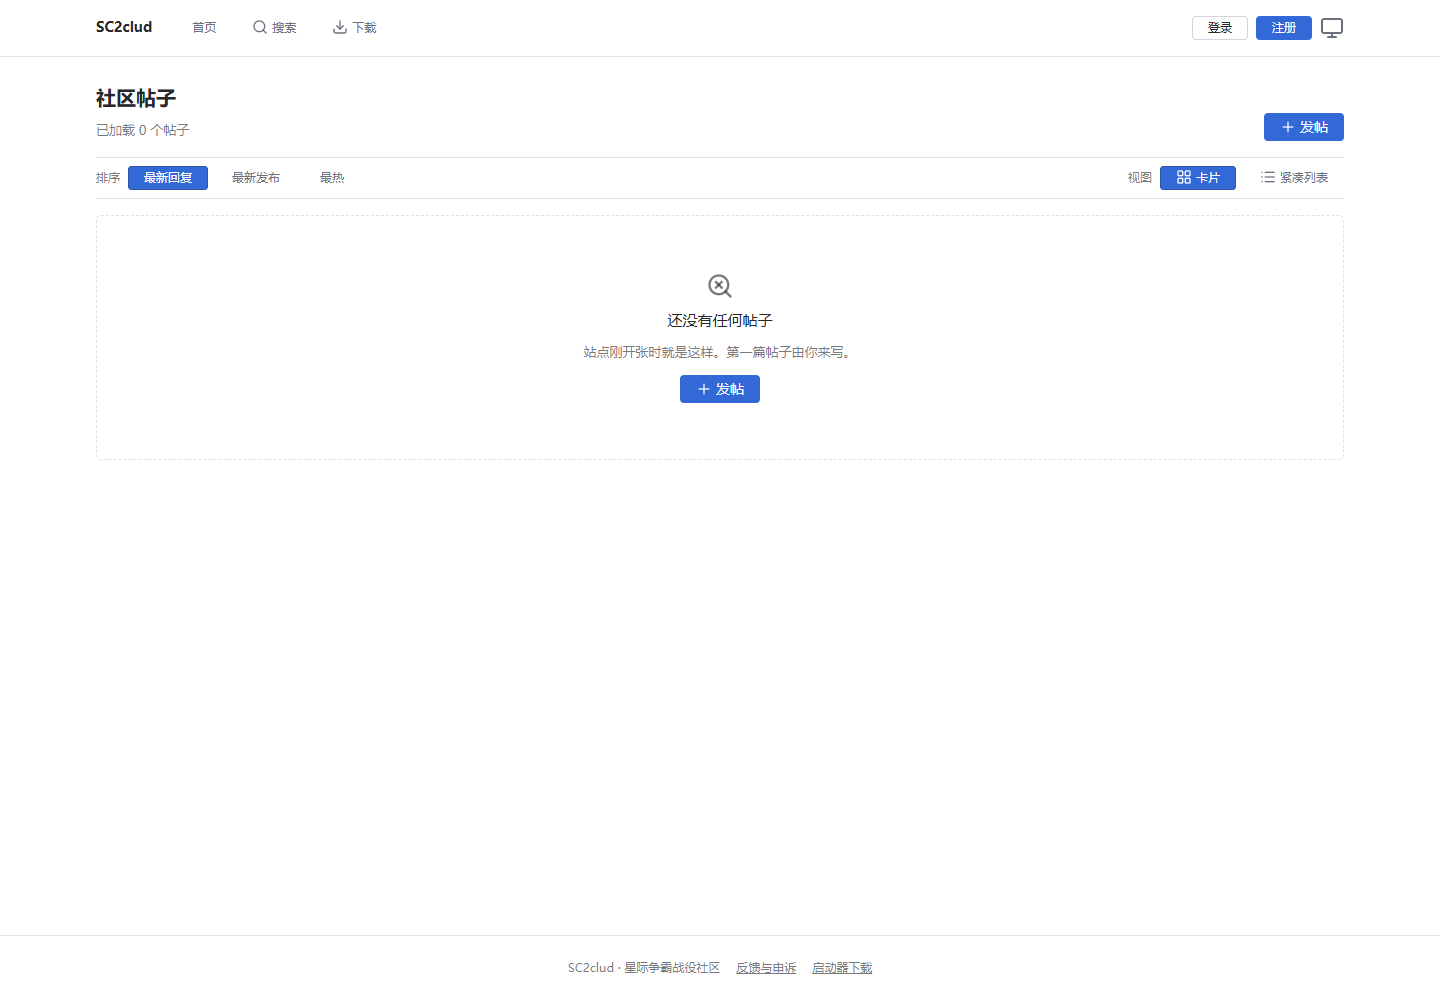
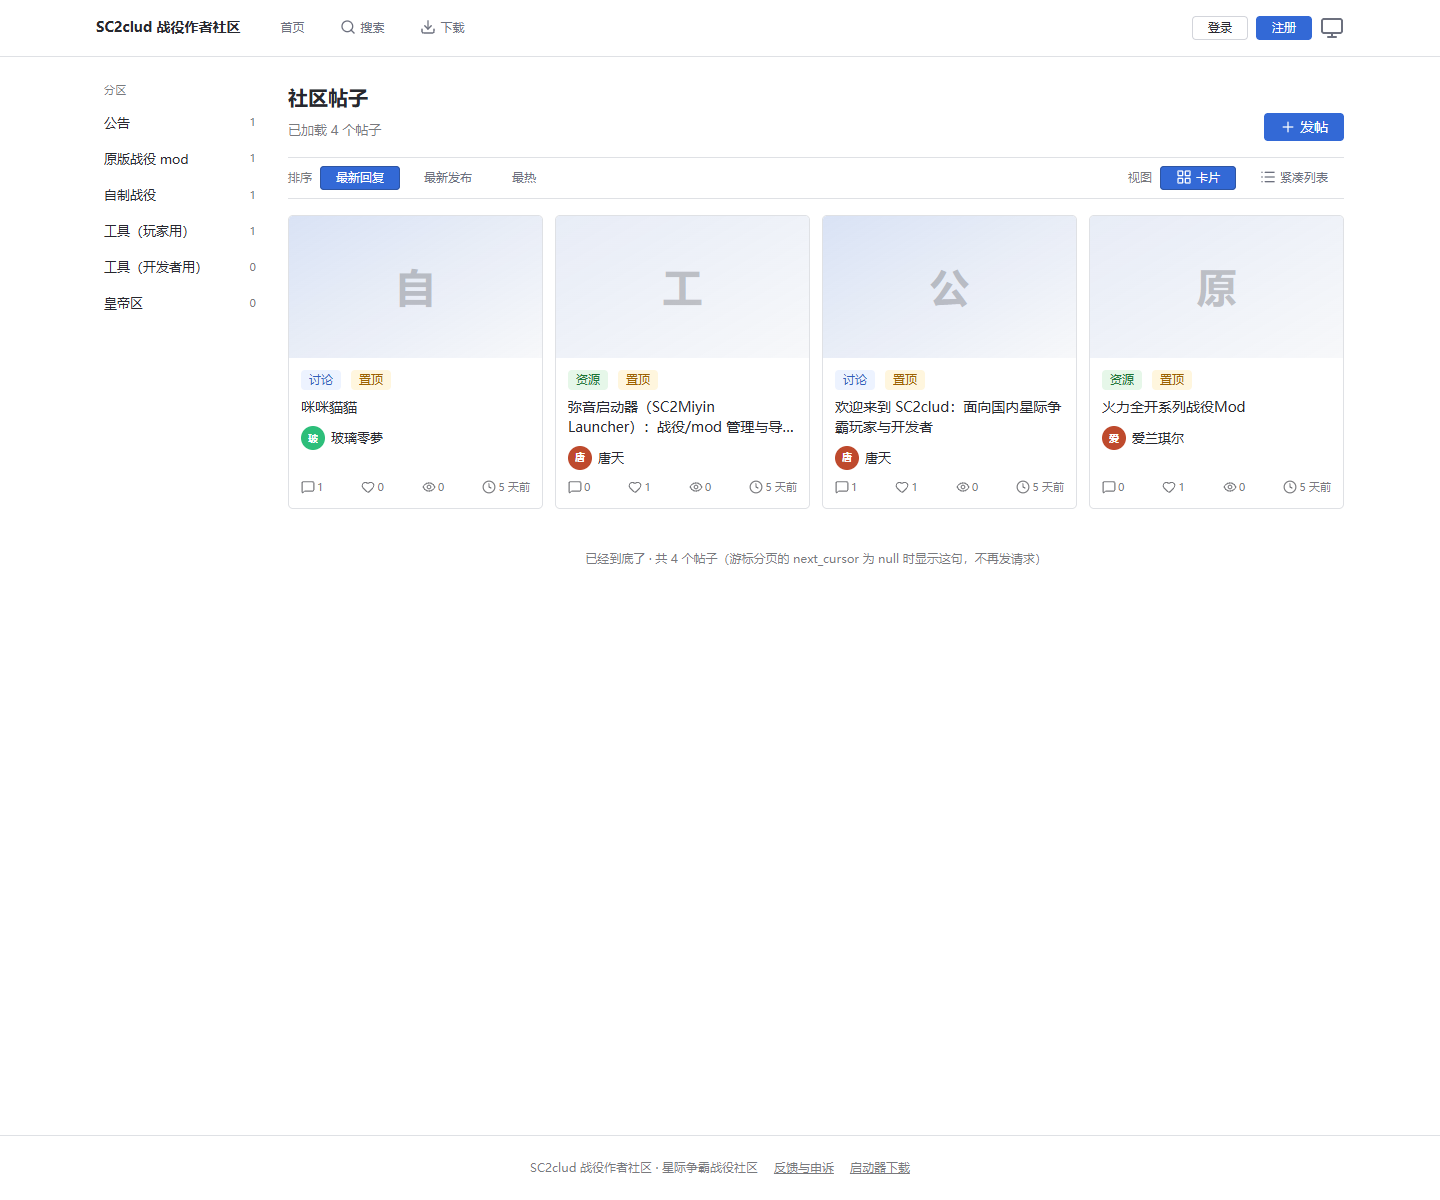
纠正我的判断：seed 要留（我删错了），并记下两件开发环境的事
1) 我在 8f27f13 里把 forum seed（seed.go/seed_data.go + command.go 分派）删掉，理由是「与数据迁移重复」。
   **那个理由在写下时就不成立了** —— 它成立的前提是「迁移用下划线 slug、seed 用连字符 slug，两套键空间撞车」，
   而我在同一批工作里已经把迁移映射到设计 slug，两边落在同一套 slug 上、同 slug 会合并成一行，不再有重复分区。
   而且两者覆盖的事不同：迁移是 4 篇真帖（用户的旧站数据），seed 是照设计的量（25 主题/75 回复）用来验分页与搜索。
   → **裁决：共存**（施工者已用 a2f41b4 恢复，我不再删）。教训写进 deploy/迁移记录.md §6：
   **删别人的实现之前，先确认它与你以为重复的那个东西，真的覆盖同一件事。**

2) 删掉 /tmp/wipe.sh —— 它把库删空（`DELETE FROM users WHERE username <> 'probe_x5'`），
   而且**硬编码了数据库口令**、`AND/OR` 优先级写错（实测 audit_logs 已被它清零）。
   /tmp 下还有 6 个含 PGPASSWORD 的脚本（apply/damage/now/probe-mig/state/sc2clud-lib），是施工者的临时脚本 —— 属临时目录，重启即清；
   但「口令出现在 /tmp 的脚本里」这件事值得记一条。

3) 迁移正确性已复核：topics 的 id 与标题与分区映射全对 ——
   6 火力全开系列战役Mod/vanilla-mod · 11 弥音启动器/tool-player · 12 欢迎来到 SC2clud/announcement · 13 咪咪貓貓/custom-campaign。

diff --git a/deploy/迁移记录.md b/deploy/迁移记录.md
@@ -62,8 +62,18 @@ GET /dev/api/v1/users/tangtian -> {"handle":"tangtian","nickname":"唐天","avat
 - `email` 为 NULL 的老用户补 `<handle>@example.com` —— **占位值，收不到信**。
 - `legacy-dev.tgz` 里那 3 个老 dev 库没迁（生产库的内容已覆盖同样的话题）。
 
-## 6. 已清理的重复实现（避免两份真源）
+## 6. 与 `forum seed`（合成演示数据）的关系 —— **两者共存，不是重复实现**
 
-- `forum/internal/app/seed.go` + `seed_data.go` + `command.go` 的 seed 分派 —— **合成种子**，建立在「没有旧数据」这个后来被推翻的前提上。
-  它的数据与真数据在同一张 boards 表里造成**重复分区**（下划线 vs 连字符两套 slug）。已随本次重建清掉，代码也移除。
-- `deploy/migrate/import_legacy.py` —— 另一个 agent 并行写的导入脚本，与本脚本重复。**保留本脚本**（它带头像与老 id，且是验证过的那份）。
+**我先删了 `forum seed`，那是判断错了，已恢复。** 记在这里免得后人重复这个错：
+
+- 我删它的理由是「与迁移重复」。那个理由成立的前提是「迁移用下划线 slug、seed 用连字符 slug，两套键空间撞车」——
+  而**同一批工作里**我已经把迁移映射到设计 slug（`vanilla_mod` → `vanilla-mod`），两边于是落在**同一套 slug** 上：
+  同一 slug 会合并成一行，**不再有重复分区**。
+- 而且两者覆盖的事不同：迁移是**4 篇真帖**（用户的旧站数据，这一轮的目的）；
+  seed 是**照设计的量**（25 主题 / 75 回复），用来验分页、搜索、个人主页列表 —— 4 篇真帖验不了这些。
+- **所以：共存。** 迁移不动 seed 的数据，seed 也不动迁移的 4 篇真帖。
+
+**另一份被清掉的**：`deploy/migrate/import_legacy.py`（另一个 agent 并行写的导入脚本，与本文档描述的脚本重复）——
+保留的是**验证过的那份**（`deploy/legacy-migration.sql`，含老 id 与头像）。
+
+**教训（写进房间规矩）**：删别人的实现之前，先确认它与你以为重复的那个东西，**真的覆盖同一件事**。
